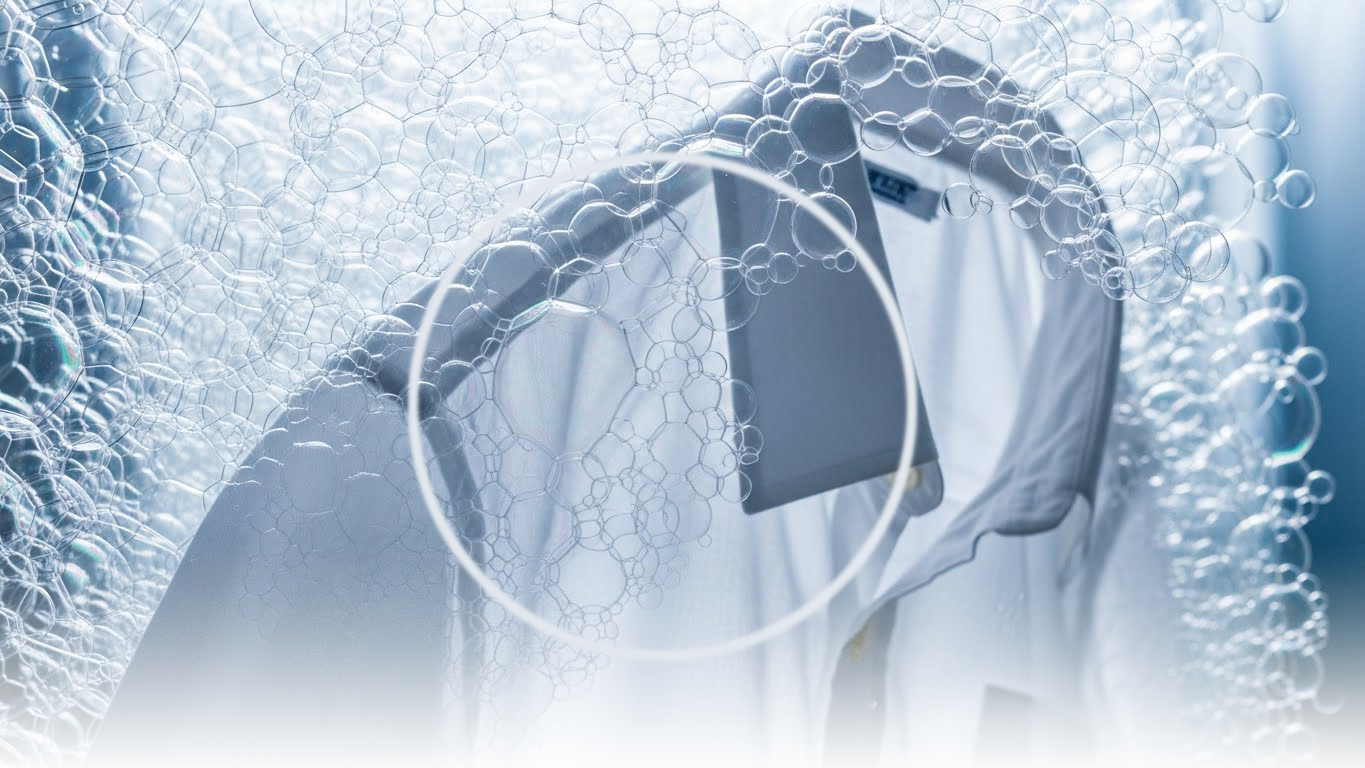
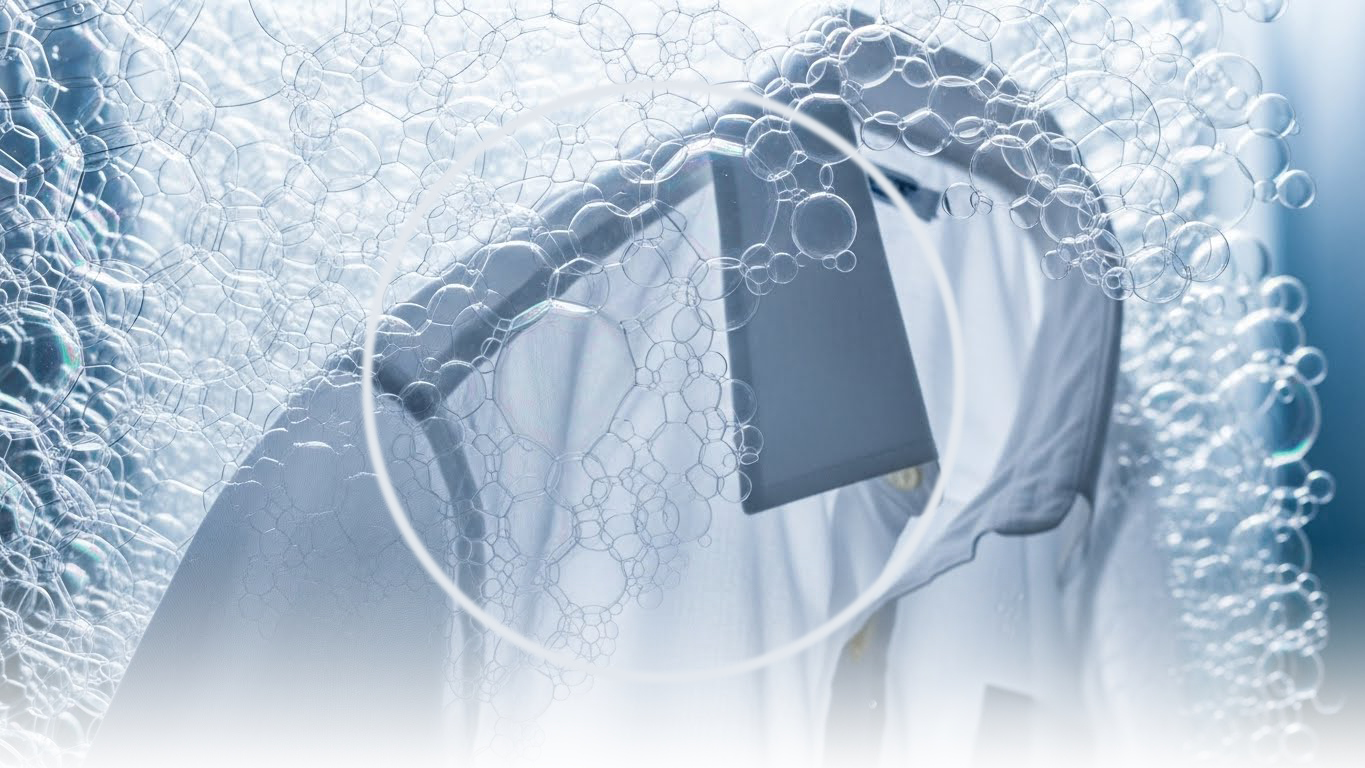
푸터수정

diff --git a/css/style.css b/css/style.css
@@ -1113,8 +1113,8 @@ li {
   justify-content: center;
   align-items: center;
   text-align: center;
-  width: 1000px; 
-  height: 1000px;
+  width: 1300px; 
+  height: 1300px;
   border-radius: 50%;
     background: transparent; 
 }
@@ -1211,10 +1211,15 @@ li {
 }
 
 .footer {
-  width: 100%;
-  /* min-height: 694px; */
+ width: 100%;
+  min-height: 420px; /* ⬅ 높이 축소 */
   text-align: left;
-  background: linear-gradient(180deg, #f5f9fd 0%, #ffff 50%, #4da3ff 100%);
+  background: linear-gradient(
+    180deg,
+    #eaf4ff 0%,
+    #7bbcff 50%,
+    #2f80ed 100%
+  ); /* ⬅ 블루 계열 */
   display: flex;
   align-items: center;
 }
@@ -1231,10 +1236,10 @@ li {
 
 /* 왼쪽 */
 .footer-left {
-  display: block;
+  display: flex;
   flex-direction: column;
-  gap: 45px;
-  margin-top: 356px;
+  gap: 28px; /* ⬅ 간격 축소 */
+  margin-top: 0; /* ⬅ 기존 356px 제거 */
 }
 
 .footer-logo {
@@ -1258,10 +1263,11 @@ li {
 }
 .footer-inner {
   width: 100%;
-  padding: 110px 110px 70px; /* ⬅ 아래만 70px */
+  margin: 0 auto;
+  padding: 70px 80px 50px; /* ⬅ 전체 패딩 축소 */
   display: flex;
   justify-content: space-between;
-  align-items: flex-end; /* 이미 바닥 정렬 */
+  align-items: flex-end;
 }
 /* 오른쪽 SNS */
 .footer-right {

diff --git a/index.html b/index.html
@@ -281,7 +281,7 @@
       </section>
       <section class="fade-section">
         <div>
-          <img src="images/shirtcircle.png" alt="배경 사진" />
+          <img src="images/shirt-bottom.png" alt="배경 사진" />
         </div>
         <div class="content">
           <img src="images/gra-bottom.png" alt="셔츠그라데이션배경">
